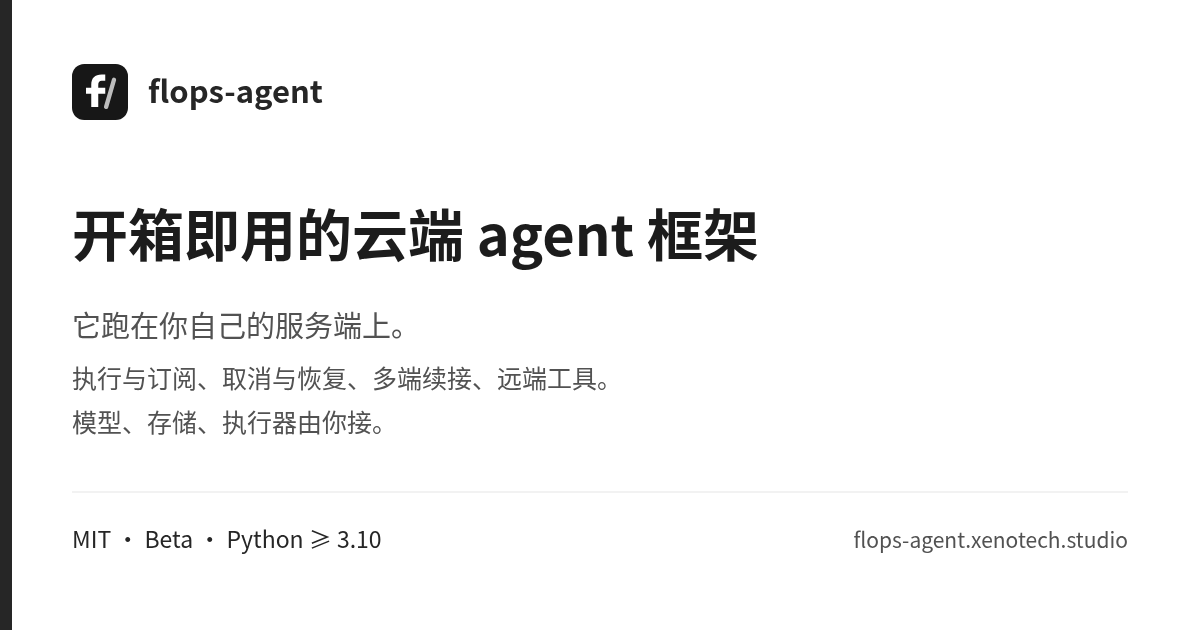
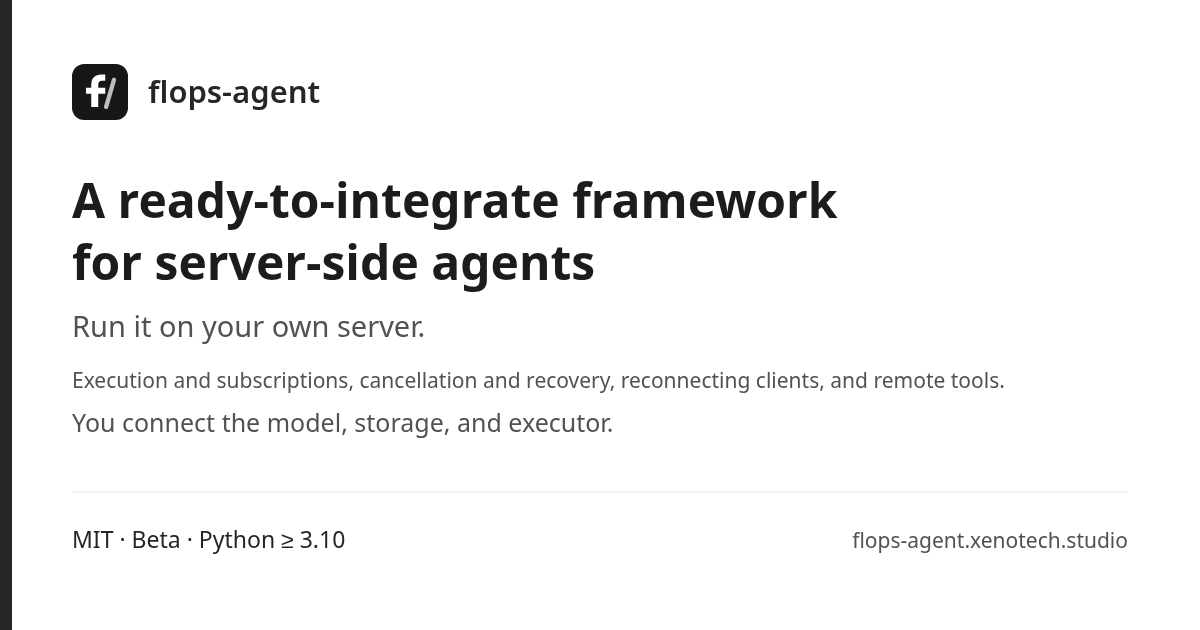
docs(website): remove remaining Chinese from public-facing assets and aliases
- index.html: title, description, og:* and twitter:* in English; og:locale en_US
- social-card.svg/png: English copy, regenerated at 1200x630 (cache-busting ?v= updated)
- docs-sources.json: drop the 98 legacy Chinese heading aliases (134 -> 36, English keys kept)
- tests: translate a Chinese docstring
- kept on purpose: the CJK regex range in compaction.py, and the Chinese fixture in the soft-trim regression test (its 600-char budget depends on it)

diff --git a/website/index.html b/website/index.html
@@ -1,5 +1,5 @@
 <!doctype html>
-<html lang="zh-CN">
+<html lang="en">
   <head>
     <meta charset="UTF-8" />
     <script>
@@ -18,7 +18,7 @@
     <meta name="viewport" content="width=device-width, initial-scale=1.0" />
     <meta
       name="description"
-      content="它跑在你自己的服务端上：把 agent 跑成服务该有的那套运行机制（执行与订阅、取消与恢复、多端续接、远端工具）都是现成的——模型、存储、执行器由你接。"
+      content="Run it on your own server. Execution and subscriptions, cancellation and recovery, reconnecting clients, and remote tools have defined runtime mechanisms; you connect the model, storage, and executor."
     />
     <meta name="theme-color" content="#171717" />
     <link rel="icon" type="image/png" href="/favicon-16.png?v=fbbc9b13afe6" sizes="16x16" />
@@ -29,23 +29,23 @@
     <link rel="icon" type="image/png" href="/favicon-256.png?v=4bcc9f5d8658" sizes="256x256" />
     <link rel="apple-touch-icon" href="/apple-touch-icon.png?v=366c74ebd13f" sizes="180x180" />
     <link rel="canonical" href="https://flops-agent.xenotech.studio/" />
-    <title>flops-agent — 开箱即用的云端 agent 框架</title>
+    <title>flops-agent — A ready-to-integrate framework for server-side agents</title>
     <meta property="og:type" content="website" />
     <meta property="og:site_name" content="flops-agent" />
-    <meta property="og:locale" content="zh_CN" />
+    <meta property="og:locale" content="en_US" />
     <meta property="og:url" content="https://flops-agent.xenotech.studio/" />
-    <meta property="og:title" content="flops-agent — 开箱即用的云端 agent 框架" />
-    <meta property="og:description" content="它跑在你自己的服务端上：把 agent 跑成服务该有的那套运行机制（执行与订阅、取消与恢复、多端续接、远端工具）都是现成的——模型、存储、执行器由你接。" />
-    <meta property="og:image" content="https://flops-agent.xenotech.studio/social-card.png?v=756bed8e7a7b" />
+    <meta property="og:title" content="flops-agent — A ready-to-integrate framework for server-side agents" />
+    <meta property="og:description" content="Run it on your own server. Execution and subscriptions, cancellation and recovery, reconnecting clients, and remote tools have defined runtime mechanisms; you connect the model, storage, and executor." />
+    <meta property="og:image" content="https://flops-agent.xenotech.studio/social-card.png?v=701ef0141c30" />
     <meta property="og:image:type" content="image/png" />
     <meta property="og:image:width" content="1200" />
     <meta property="og:image:height" content="630" />
-    <meta property="og:image:alt" content="flops-agent：开箱即用的云端 agent 框架，跑在你自己的服务端上。" />
+    <meta property="og:image:alt" content="flops-agent: A ready-to-integrate framework for server-side agents. Run it on your own server." />
     <meta name="twitter:card" content="summary_large_image" />
-    <meta name="twitter:title" content="flops-agent — 开箱即用的云端 agent 框架" />
-    <meta name="twitter:description" content="它跑在你自己的服务端上：把 agent 跑成服务该有的那套运行机制（执行与订阅、取消与恢复、多端续接、远端工具）都是现成的——模型、存储、执行器由你接。" />
-    <meta name="twitter:image" content="https://flops-agent.xenotech.studio/social-card.png?v=756bed8e7a7b" />
-    <meta name="twitter:image:alt" content="flops-agent：开箱即用的云端 agent 框架，跑在你自己的服务端上。" />
+    <meta name="twitter:title" content="flops-agent — A ready-to-integrate framework for server-side agents" />
+    <meta name="twitter:description" content="Run it on your own server. Execution and subscriptions, cancellation and recovery, reconnecting clients, and remote tools have defined runtime mechanisms; you connect the model, storage, and executor." />
+    <meta name="twitter:image" content="https://flops-agent.xenotech.studio/social-card.png?v=701ef0141c30" />
+    <meta name="twitter:image:alt" content="flops-agent: A ready-to-integrate framework for server-side agents. Run it on your own server." />
   </head>
   <body>
     <div id="root"></div>

diff --git a/tests/test_runner_extension_points.py b/tests/test_runner_extension_points.py
@@ -128,7 +128,7 @@ def test_on_stream_end_runs_before_reply_is_built():
 
 
 def test_on_stream_open_runs_after_request_before_first_chunk():
-    """流已建立钩子夹在 acompletion 与首 chunk 之间，产品无需覆写 consume_stream。"""
+    """The stream-open hook runs between acompletion and the first chunk, without requiring products to override consume_stream."""
     order = []
 
     class OpeningRunner(Runner):
@@ -149,9 +149,11 @@ def test_on_stream_open_runs_after_request_before_first_chunk():
 
 
 def test_before_llm_call_runs_before_acompletion_and_on_stream_open():
-    """before_llm_call 必须先于 acompletion 调用发生——它是产品层起「等待模型」指示器
-    最早也最可靠的挂钩点：acompletion 经常要等供应商响应就绪才返回，返回后到首个
-    chunk 之间可能只有几毫秒，on_stream_open 那时才起指示器往往已经来不及。"""
+    """before_llm_call must run before acompletion is called. It is the earliest and
+    most reliable hook for a product to show a "waiting for model" indicator:
+    acompletion often waits for the provider response to be ready before returning.
+    The first chunk may arrive only milliseconds later, so starting the indicator
+    in on_stream_open is often too late."""
     order = []
 
     class BeforeCallRunner(Runner):
